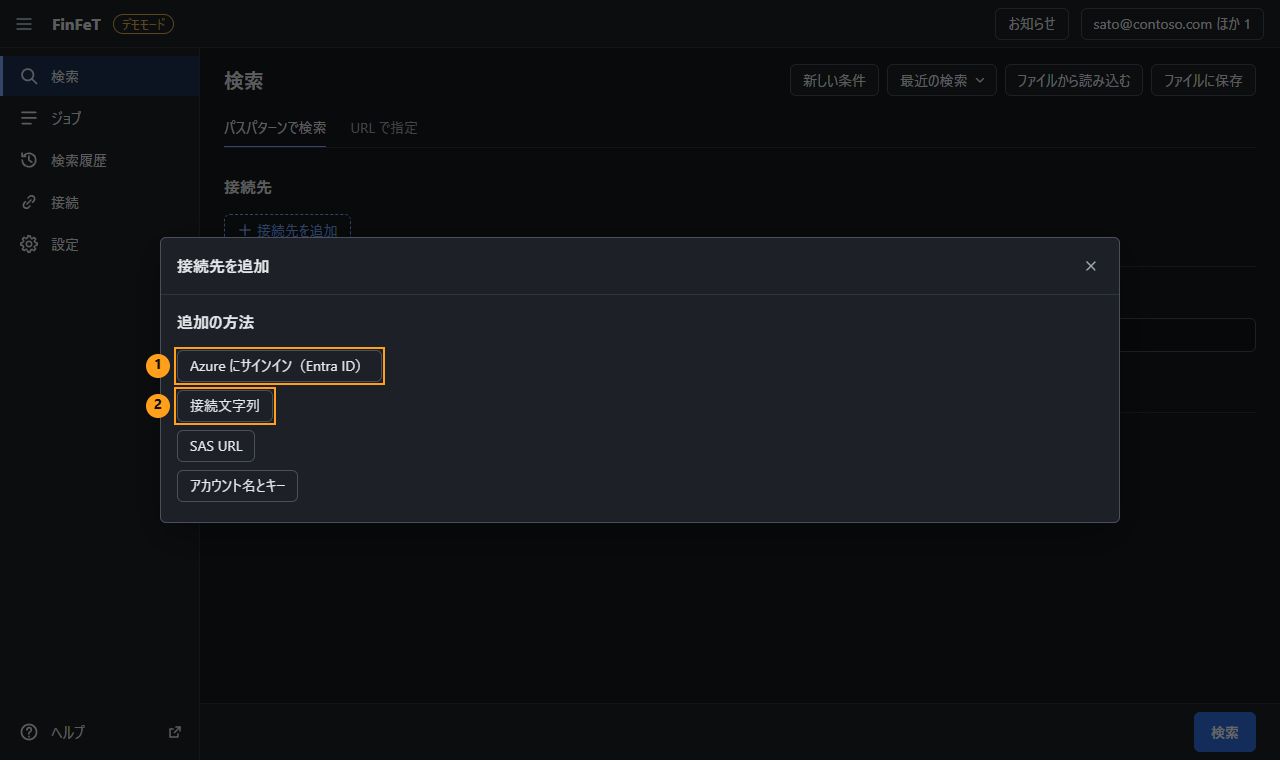
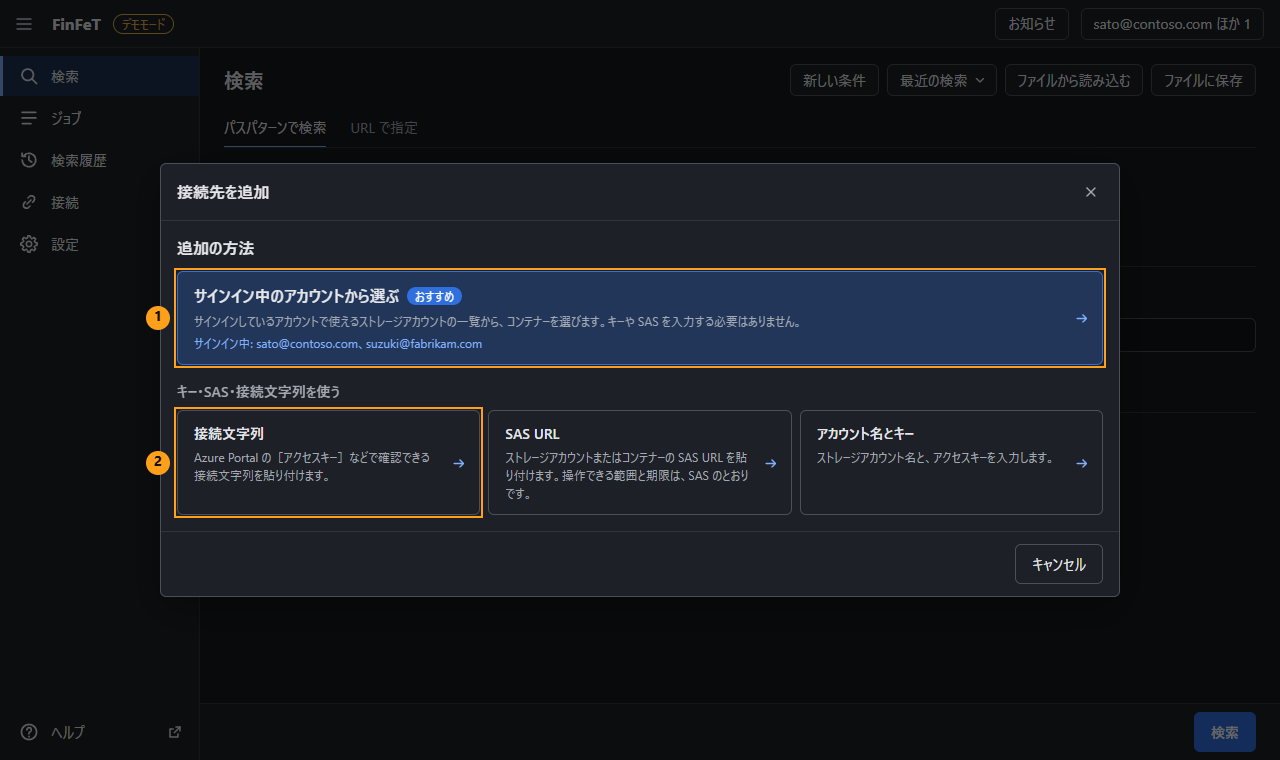
feat: 接続先の追加の最初の画面を見直し、ストレージアカウントの取得中の表示を加える (#37)

Changed region(s): [[0.0938, 0.2118, 0.875, 0.7868], [0.625, 0.5447, 0.8125, 0.6053]]

diff --git a/src/finfet_abs/web/js/parts/target-dialog.js b/src/finfet_abs/web/js/parts/target-dialog.js
@@ -1,7 +1,8 @@
 // 接続先の追加のダイアログ（4.4.2.2）と、接続先の行の認証方式の選択（4.4.2.1）。
 
 import * as api from '../api.js';
-import { addButton, button, clear, debounce, h, iconButton, linkButton } from '../dom.js';
+import { addButton, button, clear, debounce, h, icon, iconButton, linkButton } from '../dom.js';
+import { on } from '../events.js';
 import { dateShort } from '../format.js';
 import { runTask } from '../task.js';
 import { confirmDialog, openDialog } from './dialog.js';
@@ -9,11 +10,26 @@ import { checkbox, formGrid, row, select, setError, textInput } from './form.js'
 import { startSignIn } from './signin.js';
 
 const METHODS = [
-  ['azure', 'Azure にサインイン（Entra ID）'],
+  ['azure', 'サインイン中のアカウントから選ぶ'],
   ['connection_string', '接続文字列'],
   ['sas_url', 'SAS URL'],
   ['account_key', 'アカウント名とキー'],
 ];
+// 追加の方法の説明（v1.5.3: 依頼者の意見。最初の画面が簡素で、違いが分かりにくかったため）
+const METHOD_DESC = {
+  connection_string: 'Azure Portal の［アクセスキー］などで確認できる接続文字列を貼り付けます。',
+  sas_url: 'ストレージアカウントまたはコンテナーの SAS URL を貼り付けます。操作できる範囲と期限は、SAS のとおりです。',
+  account_key: 'ストレージアカウント名と、アクセスキーを入力します。',
+};
+
+/** 待っている間の表示（回る印と文）。 */
+function loadingPanel(text, sub) {
+  const t = h('div', { class: 'loading-text', text });
+  const s = h('div', { class: 'loading-sub muted', text: sub || '' });
+  const el = h('div', { class: 'loading-panel', role: 'status', 'aria-live': 'polite' },
+    h('span', { class: 'spinner', 'aria-hidden': 'true' }), h('div', { class: 'loading-body' }, t, s));
+  return { el, set: (text2, sub2) => { t.textContent = text2; if (sub2 !== undefined) s.textContent = sub2; } };
+}
 const AZURE = 'core.windows.net';
 const RENDER_LIMIT = 500;
 
@@ -53,20 +69,39 @@ export function openAddTargetDialog(opt = {}) {
       screenCleanup = () => {};
       picks.clear();
       d.setTitle(choose ? `認証方式を選択（${opt.row.storage_account} / ${opt.row.container}）` : '接続先を追加');
-      const methods = h('section', null, h('h2', { text: '追加の方法' }),
-        h('ul', { class: 'list-plain' }, METHODS.map(([id, label]) => h('li', null, linkButton(label, () => screens[id]())))));
+      d.setBody(loadingPanel('読み込んでいます…').el);
+      d.setFoot(h('span.push'), button('キャンセル', () => d.close()));
+      let st = null;
+      try { st = await api.get('/api/v1/auth/status'); } catch { /* サインインの状態が分からなくても選べます */ }
+      const signedIn = !!(st && st.signed_in);
+      const accts = st && st.accounts && st.accounts.length ? st.accounts : (st && st.account ? [st.account] : []);
+      const who = accts.map((x) => x.username).filter(Boolean);
+      const card = (id, title, desc, extra = {}) => h('button', { type: 'button', class: `method-card${extra.main ? ' main' : ''}`, onclick: () => screens[id]() },
+        h('span', { class: 'method-title' }, title, extra.tag ? h('span', { class: 'choice-tag', text: extra.tag }) : null),
+        h('span', { class: 'method-desc', text: desc }),
+        extra.sub ? h('span', { class: 'method-sub', text: extra.sub }) : null,
+        h('span', { class: 'method-go' }, icon('arrow')));
+      const azureCard = signedIn
+        ? card('azure', 'サインイン中のアカウントから選ぶ', 'サインインしているアカウントで使えるストレージアカウントの一覧から、コンテナーを選びます。キーや SAS を入力する必要はありません。',
+          { main: true, tag: 'おすすめ', sub: `サインイン中: ${who.join('、') || '（アカウント）'}` })
+        : card('azure', 'Microsoft Entra ID でサインインして選ぶ', 'サインインすると、そのアカウントで使えるストレージアカウントの一覧から、コンテナーを選べます。',
+          { main: true, tag: 'おすすめ', sub: 'まだサインインしていません' });
+      const methods = h('section', { class: 'method-section' }, h('h2', { text: '追加の方法' }),
+        h('div', { class: 'method-grid' }, azureCard),
+        h('h3', { class: 'method-subhead', text: 'キー・SAS・接続文字列を使う' }),
+        h('div', { class: 'method-grid three' }, METHODS.filter(([id]) => id !== 'azure').map(([id, label]) => card(id, label, METHOD_DESC[id]))));
       d.setBody(methods);
-      d.setFoot();
       try {
         const res = choose
           ? await api.get(`/api/v1/credentials${api.qs({ account: opt.row.storage_account, suffix: opt.row.endpoint_suffix, container: opt.row.container })}`)
           : await api.get('/api/v1/credentials');
         const usable = res.items.filter((c) => c.usable);
         if (usable.length) {
-          d.body.append(h('section', null, h('h2', { text: '保存した認証情報' }),
-            h('ul', { class: 'list-plain' }, usable.map((c) => h('li', null, linkButton(
-              `${c.storage_account}${c.scope_container ? ` / ${c.scope_container}` : ''}${c.endpoint_suffix !== AZURE ? `（${c.endpoint_suffix}）` : ''}　${c.scope_container ? 'コンテナー' : 'ストレージアカウント全体'}　${c.auth_label}${c.expires_at ? `・${dateShort(c.expires_at)} まで` : ''}`,
-              () => fromSaved(c)))))));
+          d.body.append(h('section', { class: 'method-section' }, h('h2', { text: '保存した認証情報から選ぶ' }),
+            h('div', { class: 'saved-list' }, usable.map((c) => h('button', { type: 'button', class: 'saved-item', onclick: () => fromSaved(c) },
+              h('span', { class: 'saved-name mono', text: `${c.storage_account}${c.scope_container ? ` / ${c.scope_container}` : ''}${c.endpoint_suffix !== AZURE ? `（${c.endpoint_suffix}）` : ''}` }),
+              h('span', { class: 'saved-meta muted', text: `${c.scope_container ? 'コンテナー' : 'ストレージアカウント全体'}・${c.auth_label}${c.expires_at ? `・${dateShort(c.expires_at)} まで` : ''}` }),
+              icon('arrow'))))));
         }
       } catch { /* 一覧を出せなくても追加はできます */ }
     }
@@ -186,8 +221,11 @@ export function openAddTargetDialog(opt = {}) {
 
     // ---------------------------------------------------------------- Azure にサインイン
     async function azureScreen(user) {
-      d.setTitle(titleWith('Azure にサインイン'));
+      d.setTitle(titleWith('サインイン中のアカウントから選ぶ'));
       picks.clear();
+      // 待っている間も、何をしているかを表示します（v1.5.3: 依頼者の意見）
+      d.setBody(loadingPanel('サインインの状態を確認しています…').el);
+      d.setFoot(h('span.push'), button('キャンセル', () => d.close()));
       const st = await api.get('/api/v1/auth/status');
       if (!st.signed_in) {
         d.setBody(h('div', { class: 'inline' }, h('span', { text: 'サインインしていません。' }),
@@ -302,9 +340,27 @@ export function openAddTargetDialog(opt = {}) {
         }
         finish(all);
       }, { primary: true }));
-      acctList.append(h('div', { class: 'empty', text: '読み込み中…' }));
+      // 取得中の表示: 段階（テナントごと）・見つかった数・経過した秒数（v1.5.3: 依頼者の意見）
+      const loading = loadingPanel('ストレージアカウントの一覧を取得しています…', 'サインイン中のアカウントで使えるテナント・サブスクリプションを調べています。');
+      const elapsed = h('div', { class: 'loading-elapsed muted' });
+      loading.el.querySelector('.loading-body').append(elapsed);
+      acctList.append(loading.el);
+      kw.disabled = true;
+      const t0 = Date.now();
+      const tick = setInterval(() => { elapsed.textContent = `経過 ${Math.floor((Date.now() - t0) / 1000)} 秒`; }, 1000);
+      let taskId = null;
+      const offProgress = on('accounts.progress', (p) => {
+        if (!p || (taskId && p.id && p.id !== taskId)) return;
+        if (p.step === 'tenants') loading.set('テナントの一覧を取得しています…');
+        else if (p.step === 'tenant') {
+          loading.set(`テナント「${p.tenant}」のストレージアカウントを取得しています（${p.index} / ${p.total}）…`,
+            p.found ? `これまでに ${p.found.toLocaleString('en-US')} 件見つかりました。` : 'サブスクリプションが多い場合は、数十秒かかることがあります。');
+        }
+      });
+      const prevCleanup = screenCleanup;
+      screenCleanup = () => { clearInterval(tick); offProgress(); prevCleanup(); };
       try {
-        const res = await runTask('GET', `/api/v1/azure/storage-accounts${acc ? `?account=${encodeURIComponent(acc)}` : ''}`);
+        const res = await runTask('GET', `/api/v1/azure/storage-accounts${acc ? `?account=${encodeURIComponent(acc)}` : ''}`, undefined, (id) => { taskId = id; });
         accounts = res.accounts;
         multi = res.multi_tenant;
         clear(unavailable);
@@ -316,6 +372,10 @@ export function openAddTargetDialog(opt = {}) {
       } catch (e) {
         accounts = [];
         unavailable.append(h('div', { class: 'danger', text: e.message }));
+      } finally {
+        clearInterval(tick);
+        offProgress();
+        kw.disabled = false;
       }
       drawAccounts();
     }

diff --git a/src/finfet_abs/web/css/pages.css b/src/finfet_abs/web/css/pages.css
@@ -25,6 +25,53 @@
 .td-right { border-left: 1px solid var(--line); padding-left: var(--sp-4); min-width: 0; }
 .td-accounts { max-height: 320px; margin-top: var(--sp-2); }
 .td-accounts .vrow[aria-disabled="true"] { cursor: default; }
+/* 接続先の追加: 追加の方法のカードと、保存した認証情報（v1.5.3: 依頼者の意見で、簡素だった画面を見直した） */
+.method-section + .method-section { margin-top: var(--sp-6); }
+.method-section h2 { margin-bottom: var(--sp-3); }
+.method-subhead { font-size: var(--fs-body); font-weight: 600; color: var(--text-muted); margin: var(--sp-4) 0 var(--sp-2); }
+.method-grid { display: grid; grid-template-columns: minmax(0, 1fr); gap: var(--sp-2); }
+.method-grid.three { grid-template-columns: repeat(auto-fit, minmax(15em, 1fr)); }
+.method-card {
+  position: relative; display: flex; flex-direction: column; align-items: flex-start; gap: var(--sp-1); text-align: left;
+  padding: var(--sp-3) calc(var(--sp-4) + 24px) var(--sp-3) var(--sp-4); min-height: 88px;
+  border: 1px solid var(--line-strong); border-radius: var(--radius); background: var(--bg-raised); color: var(--text); font: inherit; cursor: pointer;
+}
+.method-card:hover { background: var(--bg-hover); border-color: var(--link); }
+.method-card.main { border-color: var(--accent); background: var(--accent-soft); }
+.method-card.main:hover { box-shadow: inset 0 0 0 1px var(--accent); }
+.method-title { font-weight: 600; font-size: var(--fs-h2); display: flex; align-items: center; gap: var(--sp-2); flex-wrap: wrap; }
+.method-grid.three .method-title { font-size: var(--fs-body); }
+.method-desc { font-size: var(--fs-small); color: var(--text-muted); line-height: 1.5; }
+.method-sub { font-size: var(--fs-small); color: var(--link); }
+.method-go { position: absolute; right: var(--sp-3); top: 50%; transform: translateY(-50%); color: var(--link); }
+.saved-list { display: flex; flex-direction: column; border: 1px solid var(--line); border-radius: var(--radius); overflow: hidden; }
+.saved-item {
+  display: grid; grid-template-columns: minmax(0, 1fr) auto 16px; align-items: center; gap: var(--sp-3);
+  min-height: var(--tap); padding: var(--sp-1) var(--sp-3); border: 0; border-top: 1px solid var(--line);
+  background: var(--bg-raised); color: var(--text); font: inherit; text-align: left; cursor: pointer;
+}
+.saved-item:first-child { border-top: 0; }
+.saved-item:hover { background: var(--bg-hover); }
+.saved-item .icon { color: var(--link); }
+.saved-name { overflow: hidden; text-overflow: ellipsis; white-space: nowrap; }
+.saved-meta { font-size: var(--fs-small); white-space: nowrap; }
+@media (max-width: 639px) {
+  .saved-item { grid-template-columns: minmax(0, 1fr) 16px; }
+  .saved-meta { grid-column: 1; grid-row: 2; white-space: normal; }
+  .saved-item .icon { grid-column: 2; grid-row: 1 / span 2; }
+}
+
+/* 待っている間の表示（v1.5.3） */
+.loading-panel { display: flex; align-items: center; gap: var(--sp-3); padding: var(--sp-6) var(--sp-4); }
+.loading-body { display: flex; flex-direction: column; gap: var(--sp-1); min-width: 0; }
+.loading-text { font-weight: 600; }
+.loading-sub, .loading-elapsed { font-size: var(--fs-small); }
+.spinner {
+  flex: none; width: 28px; height: 28px; border-radius: 50%;
+  border: 3px solid var(--line-strong); border-top-color: var(--accent); animation: spin 0.9s linear infinite;
+}
+@keyframes spin { to { transform: rotate(360deg); } }
+@media (prefers-reduced-motion: reduce) { .spinner { animation-duration: 2.4s; } }
 .folder-check { display: flex; padding: var(--sp-1) var(--sp-3); }
 .folder-check:hover { background: var(--bg-hover); }
 

diff --git a/docs/usage.html b/docs/usage.html
@@ -75,13 +75,13 @@
 </ol>
 <figure class="shot"><img src="images/05-target-methods.png" alt="接続先の追加のダイアログ。追加の方法を選ぶ画面" loading="lazy"></figure>
 <ol class="marks">
-<li>サインインしたアカウントで利用できるストレージアカウントを、一覧から選択します。通常はこの方法を使用します。</li>
+<li>[サインイン中のアカウントから選ぶ] をクリックすると、サインインしたアカウントで利用できるストレージアカウントの一覧から選択できます。通常はこの方法を使用します。サインインしていない場合は、[Microsoft Entra ID でサインインして選ぶ] と表示されます。</li>
 <li>アクセスキー・SAS URL・接続文字列を使用する場合は、該当する方法を選択して値を貼り付けます。貼り付けた値は暗号化して保存されます（<a href="data.html">データの取り扱い</a>）。</li>
 </ol>
-<figure class="shot"><img src="images/06-target-azure.png" alt="Azure にサインインの画面。ストレージアカウントとコンテナーを選ぶ" loading="lazy"></figure>
+<figure class="shot"><img src="images/06-target-azure.png" alt="サインイン中のアカウントから選ぶ画面。ストレージアカウントとコンテナーを選ぶ" loading="lazy"></figure>
 <ol class="marks">
 <li>複数のアカウントでサインインしている場合は、使用するアカウントを選択します。</li>
-<li>ストレージアカウントを選択します。キーワードで一覧を絞り込めます。</li>
+<li>ストレージアカウントを選択します。キーワードで一覧を絞り込めます。一覧の取得中は、取得している段階（テナント）、見つかった件数、経過時間が表示されます。サブスクリプションが多い場合は、数十秒かかることがあります。</li>
 <li>検索の対象とするコンテナーをオンにします。複数のコンテナーを選択できます。</li>
 <li>[追加] をクリックすると、検索ページに接続先が追加されます。</li>
 </ol>

diff --git a/src/finfet_abs/web/js/pages/settings.js b/src/finfet_abs/web/js/pages/settings.js
@@ -49,7 +49,7 @@ const HELP = {
   'transfer.connect_timeout': '接続と読み取りを待つ時間です。この時間を過ぎると、失敗としてやり直します。',
   'load.process_priority': '本ツールの処理の優先度（Windows のプロセスの優先度）です。低くすると、ほかの作業の邪魔をしにくくなります。',
   'load.prevent_sleep_downloading': 'ジョブの実行中に、PC がスリープしないようにします。',
-  'auth.default_entra_mode': '接続先の追加で、Azure にサインインして選ぶときの既定の認証の方式です。',
+  'auth.default_entra_mode': '接続先の追加で、サインイン中のアカウントから選ぶときの既定の認証の方式です。',
   'auth.default_tenant': 'サインインするテナントの既定です。organizations は、サインインしたアカウントの所属するテナントです。',
   'auth.client_id': 'サインインに使うアプリケーション（クライアント）の ID です。組織で指定されている場合だけ変えます。',
   'auth.sas_expiry_warn_hours': 'SAS の有効期限がこの時間以内になったら、警告を表示します。',

diff --git a/src/finfet_abs/azure/arm.py b/src/finfet_abs/azure/arm.py
@@ -111,15 +111,23 @@ class ArmClient:
             if not skip or len(rows) >= MAX_ACCOUNTS:
                 return rows[:MAX_ACCOUNTS]
 
-    def list_storage_accounts(self, refresh: bool = False) -> dict:
-        """サインインしたアカウントで使えるテナントごとに、ストレージアカウントを取得します（3.1.3.2）。"""
+    def list_storage_accounts(self, refresh: bool = False, progress=None) -> dict:
+        """サインインしたアカウントで使えるテナントごとに、ストレージアカウントを取得します（3.1.3.2）。
+
+        progress（任意）: 進み具合の関数。{"step": "tenants"} と、テナントごとに {"step": "tenant", "tenant": 名前,
+        "index": 何番目, "total": 数, "found": それまでに見つかった数} を渡します（v1.5.3: 取得中の表示）。
+        """
+        report = progress or (lambda info: None)
         with self._lock:
             if not refresh and self._list_cache and time.monotonic() - self._list_cache[0] < LIST_CACHE_SECONDS:
                 return self._list_cache[1]
         accounts: list[dict] = []
         unavailable: list[dict] = []
-        for t in self.tenants():
+        report({"step": "tenants"})
+        tenants = self.tenants()
+        for i, t in enumerate(tenants):
             tid = t["id"]
+            report({"step": "tenant", "tenant": t["name"], "index": i + 1, "total": len(tenants), "found": len(accounts)})
             try:
                 rows = self._graph(tid, "resources | where type =~ 'microsoft.storage/storageaccounts' | project id, "
                                         "name, subscriptionId, resourceGroup, tenantId, location, "

diff --git a/src/finfet_abs/api/auth_api.py b/src/finfet_abs/api/auth_api.py
@@ -105,10 +105,16 @@ def register(router, app) -> None:
         refresh = req.arg("refresh") == "1"
         account = req.arg("account") or None
 
+        holder: dict = {}
+
+        def progress(info: dict) -> None:
+            # 取得中の表示（v1.5.3）。処理の ID は、始めた直後に決まります
+            app.events.publish("accounts.progress", {"id": holder.get("id"), **info})
+
         def run():
             from ..azure.storage import arm_for
             try:
-                data = arm_for(s["arm"], account).list_storage_accounts(refresh=refresh)
+                data = arm_for(s["arm"], account).list_storage_accounts(refresh=refresh, progress=progress)
             except InteractionRequired as exc:
                 raise AppError(exc.info.code, exc.info.message) from None
             rows = data["accounts"]
@@ -121,7 +127,9 @@ def register(router, app) -> None:
                                   "allow_shared_key": r.get("allowSharedKeyAccess") is not False,
                                   "is_hns": bool(r.get("isHnsEnabled"))} for r in rows],
                     "unavailable": data["unavailable"], "multi_tenant": data.get("multi_tenant", False)}
-        return task(run, "storage-accounts")
+        tid = s["tasks"].submit(run, "storage-accounts")
+        holder["id"] = tid
+        return json_response({"task_id": tid}, 202)
 
     @router.post("/api/v1/containers/list")
     def containers_list(req: Request):

diff --git a/src/finfet_abs/demo/fake_auth.py b/src/finfet_abs/demo/fake_auth.py
@@ -207,9 +207,17 @@ class FakeArm:
                         "allowSharedKeyAccess": name != "stexample03", "isHnsEnabled": False})
         return out
 
-    def list_storage_accounts(self, refresh: bool = False) -> dict:
+    def list_storage_accounts(self, refresh: bool = False, progress=None) -> dict:
         if not self.auth.signed_in:
             raise NotSignedIn()
+        # 取得中の表示を確かめられるよう、実際の Azure と同じ段階の進み具合を、少し時間をかけて知らせます（v1.5.3）
+        report = progress or (lambda info: None)
+        report({"step": "tenants"})
+        time.sleep(0.4)
+        report({"step": "tenant", "tenant": "Contoso", "index": 1, "total": 2, "found": 0})
+        time.sleep(0.6)
+        report({"step": "tenant", "tenant": "Fabrikam", "index": 2, "total": 2, "found": len(self._rows())})
+        time.sleep(0.3)
         unavailable = []
         if self._status().get(TENANT2, {}).get("status") != "ok":
             unavailable.append({"tenant_id": TENANT2, "tenant_name": "Fabrikam",

diff --git a/CHANGELOG.md b/CHANGELOG.md
@@ -2,6 +2,16 @@
 
 ## 未リリース
 
+### 変更
+
+- 接続先の追加の最初の画面を見直しました。追加の方法を説明付きのカードで表示し、保存した認証情報は一覧で表示します
+- 「Azure にサインイン」の名前を、サインインしている場合は「サインイン中のアカウントから選ぶ」、サインインしていない場合は「Microsoft Entra ID でサインインして選ぶ」に変えました。サインイン中のアカウント名も表示します
+- ストレージアカウントの一覧の取得中は、回転する印と、取得している段階（テナントごと）、見つかった件数、経過時間を表示します
+
+### 利用者の対応
+
+- ありません
+
 ## 1.5.2（2026-11-23）
 
 ### 追加
